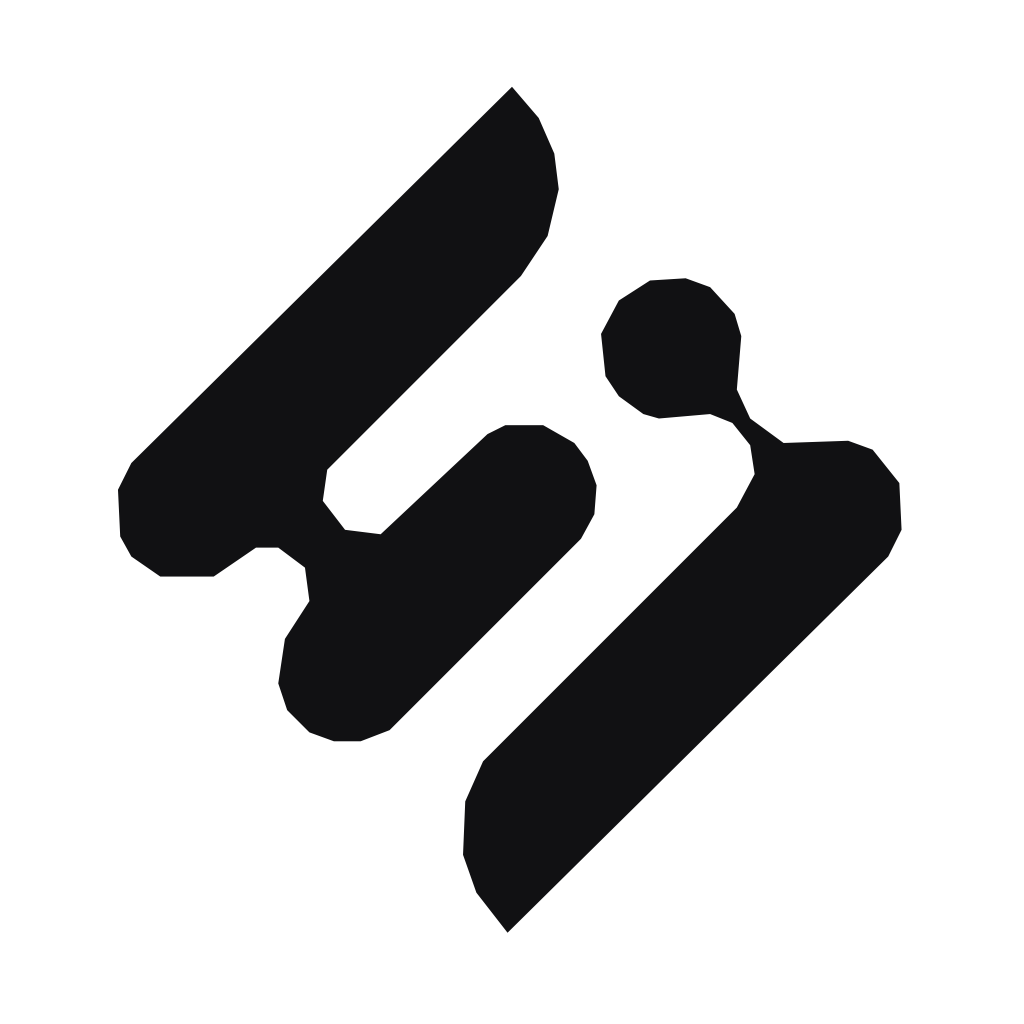
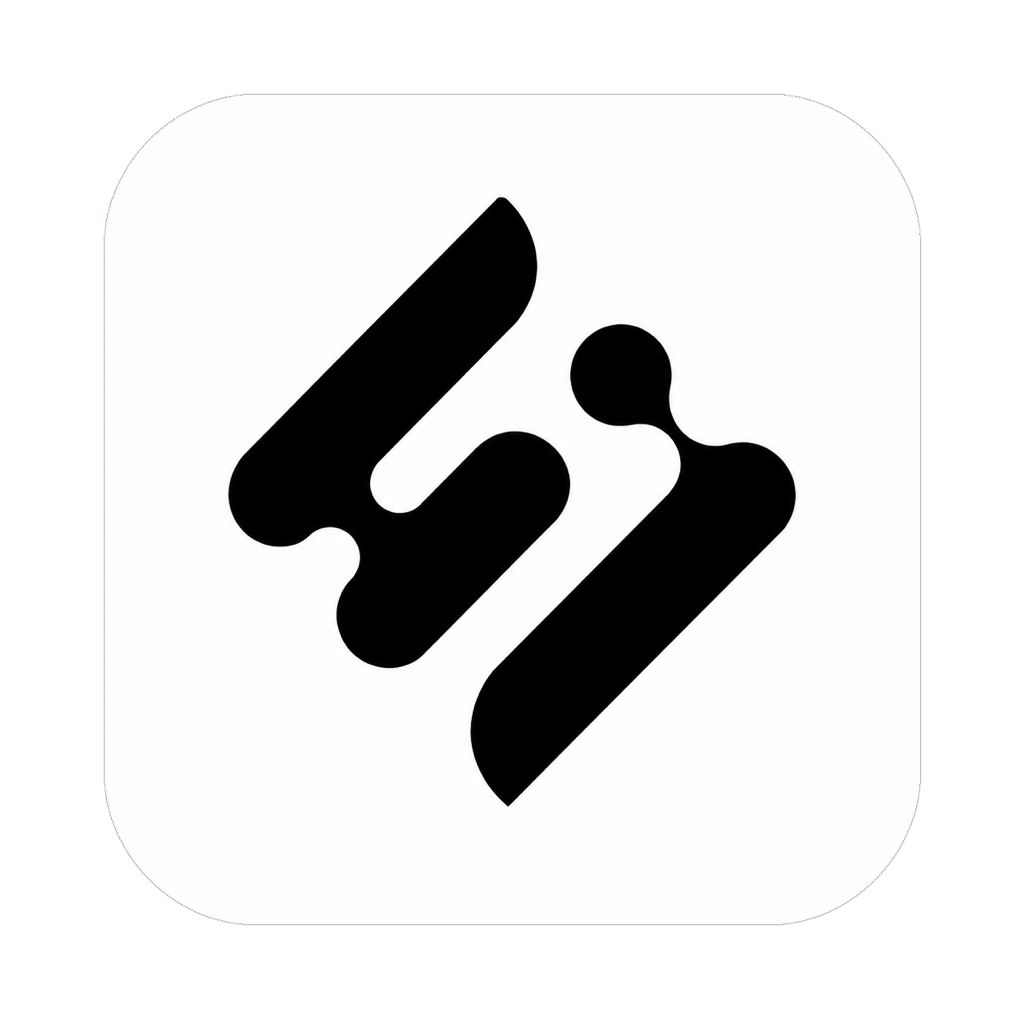
feat(desktop): simplify app branding and version reporting

Changed region(s): [[0.0938, 0.0938, 0.9062, 0.9062], [0.4375, 0.4375, 0.4688, 0.4688], [0.4062, 0.4688, 0.4375, 0.5]]

diff --git a/apps/web/src/app/AppController.tsx b/apps/web/src/app/AppController.tsx
@@ -303,6 +303,7 @@ export function AppController(props: AppControllerProps) {
   const defaultFileService = useMemo(() => createUnavailableFileService(), []);
   const fileService = props.fileService ?? defaultFileService;
   const hostBridge = props.hostBridge ?? browserBridge;
+  const [appVersion, setAppVersion] = useState<string>();
   const integratedTitleBar = hostBridge.windowChrome;
   const appShellStyle = integratedTitleBar === undefined
     ? undefined
@@ -970,6 +971,28 @@ export function AppController(props: AppControllerProps) {
     setNotificationSettings(notificationService.getSettings());
     setUnreadTaskIds(notificationService.getUnreadIds());
   }, [notificationService]);
+
+  useEffect(() => {
+    let active = true;
+    const readAppVersion = hostBridge.readAppVersion;
+    if (readAppVersion === undefined) {
+      setAppVersion(undefined);
+      return () => {
+        active = false;
+      };
+    }
+    void readAppVersion()
+      .then(version => {
+        const normalized = version.trim();
+        if (active) setAppVersion(normalized.length > 0 ? normalized : undefined);
+      })
+      .catch(() => {
+        if (active) setAppVersion(undefined);
+      });
+    return () => {
+      active = false;
+    };
+  }, [hostBridge]);
 
   useEffect(() => {
     let active = true;
@@ -2047,7 +2070,7 @@ export function AppController(props: AppControllerProps) {
   const currentRunCanceling = selectedActiveRun === undefined
     ? selectedPendingRunStart?.cancelRequested === true
     : getRunCancelState(runRegistry, selectedActiveRun.id) === 'requested';
-  const runtimeStatus = mapRuntimeStatus(connectionState);
+  const runtimeStatus = mapRuntimeStatus(connectionState, appVersion);
   const slashCommands = useMemo(
     () => buildComposerSlashCommands(codexSkills, codexMcp),
     [codexMcp, codexSkills]
@@ -5676,10 +5699,14 @@ function clampPaneWidth(value: number, min: number, max: number): number {
   return Math.round(Math.min(Math.max(value, min), max));
 }
 
-function mapRuntimeStatus(connectionState: ConnectionState): RuntimeStatus {
+function mapRuntimeStatus(
+  connectionState: ConnectionState,
+  appVersion: string | undefined
+): RuntimeStatus {
   if (connectionState.status !== 'connected') {
     return {
       connected: false,
+      ...(appVersion === undefined ? {} : { appVersion }),
       runtimeVersion: '0.1.0',
       lastCheckedAt: '2026-07-07 10:00'
     };
@@ -5687,6 +5714,7 @@ function mapRuntimeStatus(connectionState: ConnectionState): RuntimeStatus {
 
   return {
     connected: true,
+    ...(appVersion === undefined ? {} : { appVersion }),
     runtimeVersion: '0.1.0',
     codexVersion: connectionState.codexStatus.codexVersion,
     codexPath: connectionState.codexStatus.codexBin,

diff --git a/apps/desktop/test/branding-assets-2026-07-27.test.ts b/apps/desktop/test/branding-assets-2026-07-27.test.ts
@@ -31,6 +31,9 @@ describe('品牌资源', () => {
     expect(trayManager).toContain('height: size');
     expect(existsSync(resolve(desktopRoot, 'resources/tray.png'))).toBe(true);
     expect(existsSync(resolve(desktopRoot, 'resources/icon.png'))).toBe(true);
+
+    const icon = readPngMetadata(resolve(desktopRoot, 'resources/icon.png'));
+    expect(icon).toEqual({ width: 1024, height: 1024, colorType: 6 });
   });
 
   it('Desktop 图标、托盘和 Web 使用同一枚双链品牌图形', () => {
@@ -103,4 +106,15 @@ describe('品牌资源', () => {
 
 function hash(path: string): string {
   return createHash('sha256').update(readFileSync(path)).digest('hex');
+}
+
+function readPngMetadata(path: string): { width: number; height: number; colorType: number } {
+  const bytes = readFileSync(path);
+  expect(bytes.subarray(1, 4).toString('ascii')).toBe('PNG');
+  expect(bytes.subarray(12, 16).toString('ascii')).toBe('IHDR');
+  return {
+    width: bytes.readUInt32BE(16),
+    height: bytes.readUInt32BE(20),
+    colorType: bytes.readUInt8(25)
+  };
 }

diff --git a/apps/web/src/app/App.test.tsx b/apps/web/src/app/App.test.tsx
@@ -7458,6 +7458,19 @@ describe('App', () => {
     expect(window.location.hash).toBe('#/new');
   });
 
+  it('shows the application version reported by the host bridge', async () => {
+    const user = userEvent.setup();
+    const hostBridge = createHostBridge();
+    hostBridge.readAppVersion = vi.fn(async () => '3.2.1');
+
+    render(<App fileService={createFileService()} hostBridge={hostBridge} />);
+    await user.click(await screen.findByRole('button', { name: '设置' }));
+    await user.click(screen.getByRole('button', { name: '关于 OpenCreator' }));
+
+    expect(await screen.findByText('3.2.1')).toBeInTheDocument();
+    expect(hostBridge.readAppVersion).toHaveBeenCalledOnce();
+  });
+
   it('uses a solid conversation background without a dynamic background setting', async () => {
     const user = userEvent.setup();
 

diff --git a/apps/web/src/features/settings/OpenCreatorSettingsView.test.tsx b/apps/web/src/features/settings/OpenCreatorSettingsView.test.tsx
@@ -8,6 +8,7 @@ import { OpenCreatorSettingsView } from './OpenCreatorSettingsView.js';
 
 const runtimeStatus = {
   connected: true,
+  appVersion: '3.2.1',
   runtimeVersion: '0.9.1',
   codexVersion: 'codex-cli 1.2.3',
   codexPath: '/opt/homebrew/bin/codex',
@@ -299,6 +300,7 @@ describe('OpenCreatorSettingsView', () => {
     fireEvent.click(screen.getByRole('button', { name: '关于 OpenCreator' }));
 
     expect(screen.getByText('OpenCreator 版本')).toBeInTheDocument();
+    expect(screen.getByText(runtimeStatus.appVersion)).toBeInTheDocument();
     expect(screen.getByText('Runtime 版本')).toBeInTheDocument();
     expect(screen.getByText('数据目录')).toBeInTheDocument();
     expect(screen.queryByRole('button', { name: '检查更新' })).not.toBeInTheDocument();

diff --git a/apps/web/src/features/settings/OpenCreatorSettingsView.tsx b/apps/web/src/features/settings/OpenCreatorSettingsView.tsx
@@ -35,6 +35,7 @@ import './settings-management.css';
 
 export type RuntimeStatus = {
   connected: boolean;
+  appVersion?: string;
   runtimeVersion?: string;
   codexVersion?: string;
   codexPath?: string;
@@ -539,7 +540,10 @@ function AboutSettings(props: { runtimeStatus: RuntimeStatus }) {
         <p>{t('settings.about.description')}</p>
       </header>
       <div className="settings-card">
-        <SettingsRow label={t('settings.about.version')} value="0.1.0" />
+        <SettingsRow
+          label={t('settings.about.version')}
+          value={props.runtimeStatus.appVersion ?? t('settings.unknown')}
+        />
         <SettingsRow
           label={t('settings.about.runtimeVersion')}
           value={props.runtimeStatus.runtimeVersion ?? t('settings.unknown')}

diff --git a/apps/web/src/host/desktop-bridge.ts b/apps/web/src/host/desktop-bridge.ts
@@ -12,6 +12,7 @@ type DesktopApi = {
     titleBarHeight?: number;
     trafficLightInset?: number;
   };
+  readAppVersion(): Promise<string>;
   readConnectionConfig(): Promise<ConnectionConfig | null>;
   subscribeConnectionConfig(
     listener: (connection: ConnectionConfig | null) => void
@@ -73,6 +74,7 @@ export function readDesktopHostBridge(): DesktopHostBridge | undefined {
   return {
     kind: 'desktop',
     ...(windowChrome === undefined ? {} : { windowChrome }),
+    readAppVersion: () => api.readAppVersion(),
     readConnectionConfig: () => api.readConnectionConfig(),
     subscribeConnectionConfig: listener => api.subscribeConnectionConfig(listener),
     restartRuntime: () => api.restartRuntime(),

diff --git a/apps/desktop/src/main/main.ts b/apps/desktop/src/main/main.ts
@@ -335,6 +335,7 @@ function registerIpcHandlers(input: {
   quit(): void;
   reloadWorkspace(): Promise<void>;
 }): void {
+  handle(desktopIpc.readAppVersion, input.development, () => app.getVersion());
   handle(desktopIpc.readConnection, input.development, () =>
     input.bootstrap.rendererConnection());
   handle(desktopIpc.readBootstrap, input.development, () =>

diff --git a/apps/desktop/src/preload/index.ts b/apps/desktop/src/preload/index.ts
@@ -21,6 +21,7 @@ const api: DesktopApi = {
     : {
         integratedTitleBar: false
       },
+  readAppVersion: () => ipcRenderer.invoke(desktopIpc.readAppVersion),
   readConnectionConfig: () => ipcRenderer.invoke(desktopIpc.readConnection),
   subscribeConnectionConfig(listener) {
     return subscribe(desktopIpc.connectionChanged, listener);

diff --git a/apps/desktop/src/shared/types.ts b/apps/desktop/src/shared/types.ts
@@ -102,6 +102,7 @@ export type DesktopHostNotification = {
 export type DesktopApi = {
   kind: 'desktop';
   windowChrome?: DesktopWindowChrome;
+  readAppVersion(): Promise<string>;
   readConnectionConfig(): Promise<DesktopConnectionConfig | null>;
   subscribeConnectionConfig(
     listener: (connection: DesktopConnectionConfig | null) => void

diff --git a/apps/web/src/host/bridge.ts b/apps/web/src/host/bridge.ts
@@ -29,6 +29,7 @@ export type HostWindowChrome = {
 export type HostBridge = {
   kind: 'browser' | 'desktop';
   windowChrome?: HostWindowChrome;
+  readAppVersion?(): Promise<string>;
   readConnectionConfig(): Promise<ConnectionConfig | null>;
   openExternal(url: string): Promise<void>;
   revealPath(path: string): Promise<HostBridgeResult>;

diff --git a/apps/desktop/src/shared/ipc.ts b/apps/desktop/src/shared/ipc.ts
@@ -1,4 +1,5 @@
 export const desktopIpc = {
+  readAppVersion: 'opencreator:app:version',
   readConnection: 'opencreator:connection:read',
   connectionChanged: 'opencreator:connection:changed',
   readBootstrap: 'opencreator:bootstrap:read',

diff --git a/docs/operations/opencreator-desktop-release-runbook.md b/docs/operations/opencreator-desktop-release-runbook.md
@@ -30,7 +30,7 @@ pnpm desktop:package
 
 1. Node.js 22。
 2. pnpm 9.15.0。
-3. macOS 构建机安装完整的 Xcode 26 或更新版本，并通过 `xcode-select` 选中对应 Developer 目录；仅安装 Command Line Tools 不足以编译自适应应用图标。
+3. macOS 签名与公证环境提供 `codesign`、`notarytool` 和 `stapler`；普通本机未签名打包不依赖完整 Xcode。
 4. Windows 构建机允许执行 PowerShell 和 NSIS 打包工具。
 5. 仓库全量测试、类型检查和构建通过。
 6. 打包脚本会删除目标架构旧目录，并要求构建后只找到一个 fresh package root。
@@ -39,7 +39,7 @@ pnpm desktop:package
 9. OSV Scanner 2.3.8 扫描发布源码无未解释漏洞。
 10. `.github/workflows/desktop-release.yml` 通过 actionlint。
 
-macOS 打包时，`resources/OpenCreator.icon` 在 `afterPack` 阶段编译为 App 内的 `Assets.car`，由 `CFBundleIconName` 引用；系统暗色图标使用深色背景和白色品牌图形。原有 `icon.icns` 保留用于旧版 macOS。包校验会检查明暗两种 rendition 和暗色品牌图形的白色填充，资源缺失时阻止交付。
+Desktop 使用 `resources/icon.png` 作为各平台统一的应用图标源。Electron Builder 在 macOS 包内生成 `icon.icns`，包校验同时检查正式 PNG 资源与生成后的 macOS 图标存在。
 
 ## 3. 版本与标签
 
